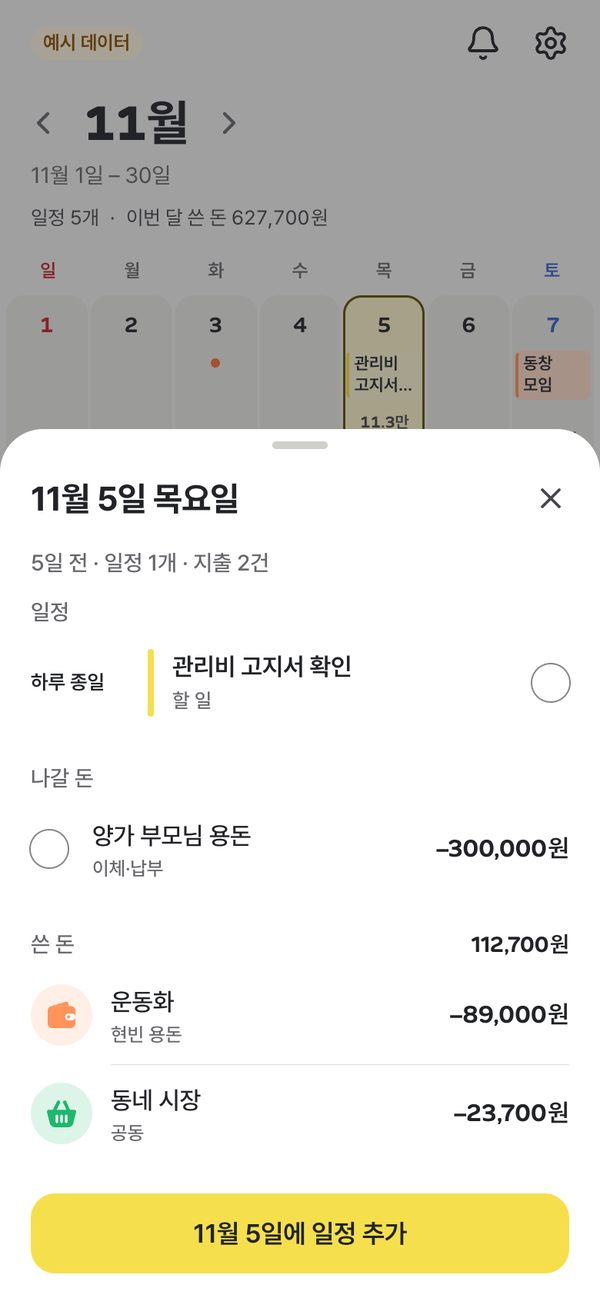
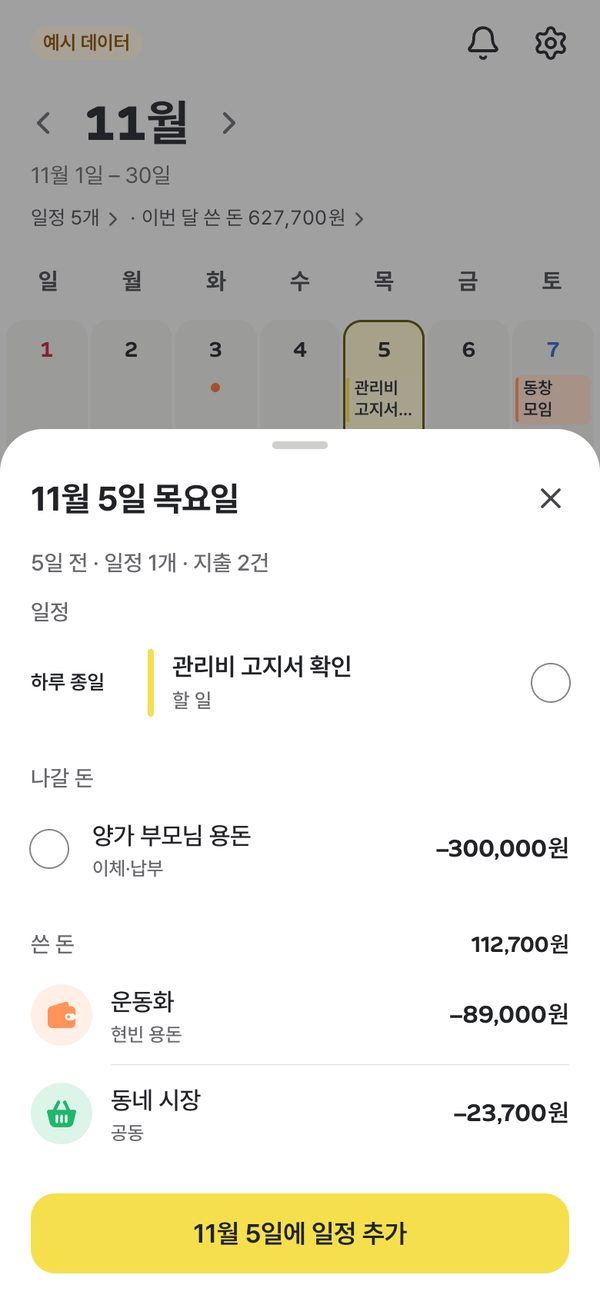
달력 요약 줄을 누르면 그 자리에서 가운데로 커지는 창 — 이번 달 일정·쓴 돈 모아 보기, 막대 여백 16px
"일정 5개 · 이번 달 쓴 돈"은 읽기만 하는 줄이라 그 내용을 보려면 모아 보기로 내려가거나 가계부로 가야 했다.
0인 쪽은 줄에서 빼고 남은 쪽을 버튼으로 두어, 누르면 그 글자에서 화면 가운데로 커지는 창(ZoomPop, transform·opacity)에
이번 달 일정(날짜별, 기간·반복은 첫날 한 번)이나 지출(SpendingDays)을 보여 준다. 줄을 누르면 위에 시트가 겹치고,
뒤로 가기는 시트 → 창 순서로 닫으며(useBackToClose 층) 닫히면 누른 글자로 줄어들고 포커스도 돌아간다.
막대 위아래 여백은 24 → 16px 로 줄이고 그만큼 요일 줄을 15px/700 로 키웠다.

diff --git a/apps/web/src/app/calendar/page.tsx b/apps/web/src/app/calendar/page.tsx
@@ -3,13 +3,13 @@
 import Link from "next/link";
 import { Suspense, useEffect, useLayoutEffect, useRef, useState } from "react";
 import { useRouter, useSearchParams } from "next/navigation";
-import { CalendarPlus, ChevronDown, ChevronLeft, X } from "lucide-react";
+import { CalendarPlus, ChevronDown, ChevronLeft, ChevronRight, X } from "lucide-react";
 import type { CalEvent, Spending } from "@/lib/types";
 import { useData } from "@/lib/store";
 import { actualAmount, findCheck, nameOf } from "@/lib/calc";
 import { ddayText, eventTodo, marksIn, monthGrid, nextOccurrence, rangeDays, rangeOf, rangeText, spentByDay, type Mark, type Range } from "@/lib/calendar";
 import { leaveSummary, resetSummary } from "@/lib/summaryNav";
-import { dateWithDay, monthLabel, parseYmd, shortDate } from "@/lib/format";
+import { dateWithDay, dayLabel, monthLabel, parseYmd, shortDate } from "@/lib/format";
 import { MonthHeader } from "@/components/MonthHeader";
 import { afterSheet, CategoryIcon, CheckButton, Money, Seg, Sheet } from "@/components/ui";
 import { EventSheet, quickEvent } from "@/components/EventSheet";
@@ -19,6 +19,8 @@ import { CalendarCard } from "@/components/CalendarCard";
 import { useCalendarStage } from "@/components/calendarStage";
 import { Morph, slideIn } from "@/components/Morph";
 import { PeriodSummary } from "@/components/PeriodSummary";
+import { SpendingDays } from "@/components/SpendingDays";
+import { ZoomPop } from "@/components/ZoomPop";
 import { usePrimaryAction, useSheets } from "@/components/Shell";
 import { spendingVisual } from "@/lib/categories";
 
@@ -253,7 +255,26 @@ function CalendarMonth() {
     },
   });
   const monthSpent = [...spent.entries()].filter(([d]) => inMonth(d)).reduce((a, [, v]) => a + v, 0);
-  const monthEvents = new Set([...marks.entries()].filter(([d]) => inMonth(d)).flatMap(([, ms]) => ms.filter((m) => m.event).map((m) => m.event!.id))).size;
+  // 이번 달 일정: 기간·반복 일정은 이번 달 첫날 한 번만
+  const monthMarks: Mark[] = [];
+  const seenEvents = new Set<string>();
+  for (const d of cells.filter(inMonth))
+    for (const m of marks.get(d) ?? [])
+      if (m.event && !seenEvents.has(m.event.id)) {
+        seenEvents.add(m.event.id);
+        monthMarks.push(m);
+      }
+  const monthEvents = monthMarks.length;
+  const monthSpendings = data.spendings.filter((x) => inMonth(x.date)).sort((a, b) => b.date.localeCompare(a.date) || (b.created_at ?? "").localeCompare(a.created_at ?? ""));
+  // 요약 줄을 누르면 그 글자에서 가운데로 커지는 창 (닫히는 동안에도 내용은 그대로)
+  const [pop, setPop] = useState(false);
+  const [popKind, setPopKind] = useState<"events" | "spent">("events");
+  const [popFrom, setPopFrom] = useState<HTMLElement | null>(null);
+  const openPop = (kind: "events" | "spent", el: HTMLElement) => {
+    setPopKind(kind);
+    setPopFrom(el);
+    setPop(true);
+  };
 
   return (
     <>
@@ -261,7 +282,25 @@ function CalendarMonth() {
       <div className="cal-page" ref={page}>
         <div className="cal-stage">
           <MonthHeader name="달력" sub={`${Number(month.slice(5))}월 1일 – ${Number(cells.filter(inMonth).at(-1)!.slice(8))}일`}>
-            <p className="cal-summary">일정 {monthEvents}개 <span aria-hidden="true">·</span> 이번 달 쓴 돈 <Money value={monthSpent} /></p>
+            {/* 없는 것은 빼고, 있으면 눌러서 모아 본다 */}
+            {(monthEvents > 0 || monthSpent > 0) && (
+              <p className="cal-summary">
+                {monthEvents > 0 && (
+                  <button type="button" className="sum-link" aria-haspopup="dialog" onClick={(e) => openPop("events", e.currentTarget)}>
+                    일정 {monthEvents}개<ChevronRight aria-hidden="true" />
+                  </button>
+                )}
+                {monthEvents > 0 && monthSpent > 0 && <span aria-hidden="true">·</span>}
+                {monthSpent > 0 && (
+                  <button type="button" className="sum-link" aria-haspopup="dialog" onClick={(e) => openPop("spent", e.currentTarget)}>
+                    <span>
+                      이번 달 쓴 돈 <Money value={monthSpent} />
+                    </span>
+                    <ChevronRight aria-hidden="true" />
+                  </button>
+                )}
+              </p>
+            )}
           </MonthHeader>
           <section className="calendar-month" aria-label="월 달력">
             <CalendarCard month={month} cells={cells} marks={marks} spent={spent} day={day} today={today} onPick={pick} />
@@ -303,9 +342,44 @@ function CalendarMonth() {
           <DayAgenda day={day} marks={marks.get(day) ?? []} onOpenEvent={editEvent} onOpenSpending={(x) => closeThen(() => openSpending(x))} />
         </div>
       </Sheet>
+      <ZoomPop
+        open={pop}
+        onOpenChange={setPop}
+        from={popFrom}
+        title={
+          popKind === "events" ? (
+            `${monthLabel(month)} 일정 ${monthEvents}개`
+          ) : (
+            <>
+              {monthLabel(month)} 쓴 돈 <Money value={monthSpent} />
+            </>
+          )
+        }
+      >
+        {popKind === "events" ? <MonthEvents marks={monthMarks} onOpenEvent={(e) => openEvent(e)} /> : <SpendingDays rows={monthSpendings} />}
+      </ZoomPop>
       <EventSheet key={sheet.key} open={sheet.open} event={sheet.event} date={sheet.date} draft={sheet.draft} onOpenChange={closeEvent} />
     </>
   );
+}
+
+/** 요약 창의 이번 달 일정 — 날짜별로 묶고, 줄을 누르면 고친다 */
+function MonthEvents({ marks, onOpenEvent }: { marks: Mark[]; onOpenEvent: (event: CalEvent) => void }) {
+  const { today } = useData();
+  const days = new Map<string, Mark[]>();
+  for (const m of marks) days.set(m.date, [...(days.get(m.date) ?? []), m]);
+  return [...days.entries()].map(([date, ms]) => (
+    <div className="daygroup" key={date}>
+      <div className="dayhead">
+        <span>{dayLabel(date, today)}</span>
+      </div>
+      <div className="rows">
+        {ms.map((m) => (
+          <EventRow key={m.event!.id} m={m} onOpen={() => onOpenEvent(m.event!)} />
+        ))}
+      </div>
+    </div>
+  ));
 }
 
 /** 날짜 패널: 얼마나 떨어진 날인지, 그 아래 일정 → 들어올 돈 → 나갈 돈 → 쓴 돈을 묶어서 보여 준다. */

diff --git a/apps/web/src/components/ZoomPop.tsx b/apps/web/src/components/ZoomPop.tsx
@@ -1,0 +1,108 @@
+"use client";
+
+import { useEffect, useId, useLayoutEffect, useRef, useState } from "react";
+import { createPortal } from "react-dom";
+import { X } from "lucide-react";
+import { still } from "./Morph";
+import { useBackToClose } from "./ui";
+
+/** 커지기·줄어들기 (ms) — 열 때는 서랍 박자, 닫을 때는 조금 빠르게 */
+const OPEN_MS = 420;
+const CLOSE_MS = 260;
+const EASE = "cubic-bezier(0.32, 0.72, 0, 1)";
+
+/**
+ * 누른 글자 자리에서 화면 가운데로 점점 커지며 뜨는 창 (docs/design-system/components/Calendar "요약 창").
+ * 닫으면 누른 자리로 줄어들며 사라진다. transform·opacity 만 움직인다.
+ * 뒤로 가기·Esc·바깥 누르기로 닫는다. 시트(z 40)보다 아래에 떠서, 안에서 연 일정·지출 시트가 위에 겹친다.
+ */
+export function ZoomPop({
+  open,
+  onOpenChange,
+  from,
+  title,
+  children,
+}: {
+  open: boolean;
+  onOpenChange: (v: boolean) => void;
+  /** 누른 글자 — 여기서 커지고 여기로 줄어든다 */
+  from: HTMLElement | null;
+  title: React.ReactNode;
+  children: React.ReactNode;
+}) {
+  const [shown, setShown] = useState(open);
+  const panel = useRef<HTMLDivElement>(null);
+  const veil = useRef<HTMLDivElement>(null);
+  const titleId = useId();
+  useBackToClose(open, onOpenChange);
+  if (open && !shown) setShown(true);
+
+  // 누른 글자 가운데에서 창 가운데까지의 거리와 크기 비율
+  const delta = () => {
+    const p = panel.current?.getBoundingClientRect();
+    const f = from?.getBoundingClientRect();
+    if (!p || !f) return null;
+    const dx = f.left + f.width / 2 - (p.left + p.width / 2);
+    const dy = f.top + f.height / 2 - (p.top + p.height / 2);
+    const s = Math.max(0.12, Math.min(f.width / p.width, 0.5));
+    return `translate(${dx}px, ${dy}px) scale(${s})`;
+  };
+
+  useLayoutEffect(() => {
+    const el = panel.current;
+    if (!el) return;
+    if (open) {
+      el.focus({ preventScroll: true });
+      const t = delta();
+      if (t && !still()) {
+        el.animate([{ transform: t, opacity: 0 }, { transform: "none", opacity: 1 }], { duration: OPEN_MS, easing: EASE });
+        veil.current?.animate([{ opacity: 0 }, { opacity: 1 }], { duration: OPEN_MS, easing: "ease" });
+      }
+      return;
+    }
+    if (!shown) return;
+    // 움직임 줄이기면 길이 0 — 끝나면(onfinish) 내린다
+    const t = delta();
+    const ms = still() ? 0 : CLOSE_MS;
+    const a = el.animate(t ? [{ transform: "none", opacity: 1 }, { transform: t, opacity: 0 }] : [{ opacity: 1 }, { opacity: 0 }], { duration: ms, easing: EASE, fill: "forwards" });
+    const b = veil.current?.animate([{ opacity: 1 }, { opacity: 0 }], { duration: ms, easing: "ease", fill: "forwards" });
+    a.onfinish = () => setShown(false);
+    return () => {
+      a.cancel();
+      b?.cancel();
+    };
+    // eslint-disable-next-line react-hooks/exhaustive-deps -- 열고 닫을 때만
+  }, [open]);
+
+  // 닫히면 누른 글자로 포커스를 돌려준다
+  useEffect(() => {
+    if (!open && shown) from?.focus({ preventScroll: true });
+  }, [open, shown, from]);
+
+  if (!shown) return null;
+  return createPortal(
+    <div ref={veil} className="zoom-pop" inert={!open} onClick={() => onOpenChange(false)}>
+      <div
+        ref={panel}
+        className="zoom-panel"
+        role="dialog"
+        aria-modal="true"
+        aria-labelledby={titleId}
+        tabIndex={-1}
+        onClick={(e) => e.stopPropagation()}
+        onKeyDown={(e) => {
+          if (e.key === "Escape") onOpenChange(false);
+        }}
+      >
+        <div className="zoom-head">
+          <h2 id={titleId}>{title}</h2>
+          <button type="button" className="cal-close" aria-label="닫기" onClick={() => onOpenChange(false)}>
+            <X aria-hidden="true" />
+          </button>
+        </div>
+        <div className="zoom-body">{children}</div>
+      </div>
+    </div>,
+    document.body,
+  );
+}

diff --git a/apps/web/src/app/globals.css b/apps/web/src/app/globals.css
@@ -274,6 +274,18 @@ button, a, [role="button"], .chip, .tab, .seg button, .preset, .db {
 .cal-summary { color: var(--muted); font: 400 13px/20px var(--font-text); }
 .cal-summary { margin-top: 8px; }
 .cal-summary > span[aria-hidden] { margin: 0 4px; }
+/* 요약 줄의 "일정 5개 ›" · "이번 달 쓴 돈 627,700원 ›" — 누르면 그 글자에서 가운데로 커지는 창(ZoomPop) */
+.sum-link { display: inline-flex; align-items: center; gap: 1px; margin: -6px -4px; padding: 6px 4px; border: 0; border-radius: var(--radius-control); background: none; color: inherit; font: inherit; transition: transform var(--dur-press) var(--ease-press), background-color var(--dur-press) ease; }
+.sum-link svg { width: 15px; height: 15px; stroke-width: 2.25; color: var(--faint); }
+.sum-link:active { transform: scale(0.96); background: var(--tab-active-bg); }
+@media (hover: hover) and (pointer: fine) { .sum-link:hover { background: var(--tab-active-bg); } }
+/* 가운데로 커지는 창: 시트(z 40)보다 아래라 안에서 연 일정·지출 시트가 위에 겹친다 */
+.zoom-pop { position: fixed; inset: 0; z-index: 35; display: grid; place-items: center; padding: calc(env(safe-area-inset-top, 0px) + 56px) 16px calc(env(safe-area-inset-bottom, 0px) + 24px); background: var(--scrim); }
+.zoom-panel { display: flex; flex-direction: column; width: min(480px, 100%); max-height: 100%; overflow: hidden; border-radius: var(--radius-card); background: var(--surface); box-shadow: var(--shadow-float); outline: none; }
+.zoom-head { display: flex; flex: none; align-items: center; justify-content: space-between; gap: 8px; padding: 14px 20px 2px; }
+.zoom-head h2 { font: 700 19px/26px var(--font-text); }
+.zoom-head .cal-close { margin-right: -10px; }
+.zoom-body { padding: 0 20px 16px; overflow-y: auto; overscroll-behavior: contain; }
 .cal-close { display: grid; flex: none; place-items: center; width: 44px; height: 44px; padding: 0; border: 0; border-radius: var(--radius-control); background: var(--well); color: var(--muted); transition: transform var(--dur-press) var(--ease-press); }
 .cal-close svg { width: 22px; height: 22px; }
 /* 패널 닫기는 상자 없이 아이콘만 (누르는 자리는 44px 유지) */
@@ -403,6 +415,8 @@ button, a, [role="button"], .chip, .tab, .seg button, .preset, .db {
     scroll-snap-align: start;
   }
   .cal-stage .page-head { margin-bottom: 14px; }
+  /* 막대 위아래를 줄인 만큼(16px) 요일 줄을 키우고 굵게 */
+  .cal-stage .cal-week span { padding: 6px 0 14px; color: var(--muted); font: 700 15px/22px var(--font-text); }
   .cal-stage .calendar-month, .cal-stage .cal { display: flex; flex: 1; flex-direction: column; min-height: 0; }
   .cal-stage .cal-grid { flex: 1; min-height: 0; grid-auto-rows: minmax(0, 1fr); }
   .cal-stage .cal-day { min-height: 0; overflow: hidden; }

diff --git a/apps/web/src/app/tokens.css b/apps/web/src/app/tokens.css
@@ -86,7 +86,7 @@
   --nav-gap: 8px;
   --fab-wide-w: 224px;
   --fab-wide-h: 52px;
-  --fab-clear: 24px;
+  --fab-clear: 16px;
   --fab-compose-h: 122px;
   --pass-peek: 58px;
   --radius-card: 24px;

diff --git a/docs/design-system/components/Calendar/README.md b/docs/design-system/components/Calendar/README.md
@@ -4,12 +4,13 @@
 
 ## 구성
 
-- **머리:** 다른 화면과 같습니다. 달 제목은 왼쪽 끝, 아래 기간 줄과 "일정 5개 · 이번 달 쓴 돈" 한 줄. 모아 보기 버튼은 두지 않습니다(모아 보기는 달력 아래에 있습니다). 월 화살표·달 고르기·기간 모아 보기를 유지합니다.
+- **머리:** 다른 화면과 같습니다. 달 제목은 왼쪽 끝, 아래 기간 줄과 "일정 5개 › · 이번 달 쓴 돈 627,700원 ›" 한 줄(0인 쪽은 빼고, 둘 다 없으면 줄도 없음).
+  - **요약 창(`ZoomPop`):** 줄의 글자를 누르면 그 글자 자리에서 화면 가운데로 점점 커지며 창이 뜹니다(`transform`·`opacity`만, 420ms `ease-drawer`, 뒤는 `scrim`). 일정은 이번 달 일정을 날짜별로(기간·반복은 이번 달 첫날 한 번), 쓴 돈은 이번 달 지출을 날짜별로(`SpendingDays`) 보여 주고, 줄을 누르면 그 위에 일정·지출 시트가 열립니다. 닫으면(×·바깥·뒤로 가기·Esc) 누른 글자로 줄어들며(260ms) 사라지고 포커스도 그 글자로 돌아갑니다. 창은 시트(z 40) 아래 z 35입니다. 모아 보기 버튼은 두지 않습니다(모아 보기는 달력 아래에 있습니다). 월 화살표·달 고르기·기간 모아 보기를 유지합니다.
 - **두 칸 — 달력 ↔ 모아 보기 (폰·태블릿, 1024px 미만):**
   - **첫 화면은 달력만:** 머리와 달력이 위 막대 아래를 꽉 채우고, 날짜 줄이 남는 높이를 나눠 가집니다. 손잡이·안내 글은 두지 않습니다.
   - **하단 메뉴가 비켜 줌:** 달력만 보일 때(`<html data-cal="focus">`) 캡슐은 아래로 내려가 숨고, 일정 추가 버튼이 가운데로 옮겨 가며 얇은 막대(`fab-wide-w` 224 × `fab-wide-h` 52px, 하단 메뉴처럼 반투명 바탕)로 늘어납니다(`dur-tab`·`ease-drawer`, 자리는 `translate`, 가운데는 하단 메뉴 실제 폭 `cqw` 기준). 막대 왼쪽은 "11월 17일에 추가"(쓰던 글이 있으면 그 글), 오른쪽 `+`는 원래 일정 시트입니다.
   - **바로 쓰기(`QuickAdd`):** "…에 추가"를 누르면 막대가 하단 메뉴 폭 × `fab-compose-h` 122px로 서서히 커지고(모서리 `radius-card`, 바탕 `surface`), 원래 입력칸(`.input`)이 55% 크기에서 `ease-pop`으로 커지며 생기고 키보드가 바로 올라옵니다. 아래 줄은 **시간 알약**(누르면 폰 시간 고르기, 고르면 "오후 3시 30분" · `accent-soft`, ×로 지움) · 자세히 · 추가. 추가는 시트 없이 고른 날짜에 **일정**으로 바로 더합니다(시간을 안 고르면 제목 속 "3시 반"을 시트와 같은 규칙으로 뗌). 자세히·`+`는 쓰던 제목·시간으로 일정 시트를 엽니다.
-  - 펼친 동안 뒤는 `scrim`으로 덮어 카드가 날짜와 떨어져 보입니다. 접힌 막대는 위(달력 마지막 줄)·아래(화면 끝, 안전 영역 위) 여백이 같게 `fab-clear` 24px입니다(달력 첫 화면에서만 막대를 `nav-inset`보다 그만큼 올림).
+  - 펼친 동안 뒤는 `scrim`으로 덮어 카드가 날짜와 떨어져 보입니다. 접힌 막대는 위(달력 마지막 줄)·아래(화면 끝, 안전 영역 위) 여백이 같게 `fab-clear` 16px입니다. 줄인 만큼 요일 줄을 키워 15px/700(`muted`), 줄 높이 42px(달력 첫 화면에서만 막대를 `nav-inset`보다 그만큼 올림).
   - 막대 밖을 누르면 접기만 하고(그 누름은 뒤의 날짜를 고르지 않음), 뒤로 가기(`useBackToClose`)·Esc 로도 접힙니다. 쓰던 글은 남습니다. 키보드가 올라오면 화면이 줄어(`interactive-widget=resizes-content`, 앱은 `adjustResize`) 막대가 키보드 위에 붙습니다. 달력 아래에는 그 버튼 자리만큼 비워 둡니다.
   - **저항감 있는 넘김:** 두 칸 사이는 스크롤 스냅(`y mandatory`)입니다. 조금 끌면 달력으로 되돌아오고, 더 끌면 모아 보기 머리가 위 막대 아래에 맞춰 섭니다. 모아 보기가 길면 그 안은 자유롭게 굴립니다.
   - **메뉴가 돌아옴:** 모아 보기 위쪽이 화면 가운데를 넘으면(`data-cal="open"`) 캡슐과 버튼이 같은 박자로 제자리로 돌아옵니다. 다시 위로 올리면 또 비켜 줍니다.

diff --git a/CHANGELOG.md b/CHANGELOG.md
@@ -17,7 +17,7 @@
 - 체크와 플랜 맨 위가 토스·뱅크샐러드처럼 바뀌었어요. 화면 머리에는 달과 기간만 두고, 체크는 첫 카드에 **"11건 남았어요"**와 막대, 남은 묶음 줄(옮길 돈 2건 · 600,000원 ›…)을 둬요 — 줄을 누르면 그 카드로 내려가요. 플랜은 "월급이 나뉘는 곳" 카드가 "926,100원 남았어요"를 말하고, "다른 달에서 불러오기"는 화면 맨 아래 한 줄 카드 "다른 달에서 항목 가져오기"로 옮겼어요.
 - 홈 "이번 달 할 일"이 체크 요약과 같은 모양이 됐어요: 큰 숫자 **"11건 남았어요"**와 막대, 기한 지난 일 한 줄, 그리고 급한 순 **3건만** 보여요(전엔 6건). 나머지는 맨 아래 "남은 일 11건 모두 보기 ›"로 체크에서 봐요.
 - 홈 맨 위의 결론 문장("현빈 ISA로 옮길 돈 외 2건이 기한을 넘겼어요.")을 토스처럼 **하나씩 도착하는 알림 카드**로 바꿨어요. 지금 알아야 할 것(기한 넘김 · 잘 나갔는지 확인 · 오늘 월급날/옮길 돈 · 모두 마침 · 생활비 빠름 · 다음 월급날)을 최대 3개까지, 카드가 글과 함께 작은 크기에서 커지며 나타나고, 다음 알림이 오면 먼저 온 알림이 아래로 내려가요(가장 중요한 알림이 맨 위). 앱을 켜 둔 동안 한 번만 움직이고, 누르면 체크(생활비는 가계부)로 가요. 알림은 한 번 눌러 보면 사라져요 — 기한 넘긴 일만 끝낼 때까지 남아요. 이제 모든 화면 머리에는 달과 기간만 있어요.
-- 달력 화면은 처음엔 **달력만 꽉 차요**. 아래 메뉴가 내려가 숨고 일정 추가 버튼이 가운데로 옮겨 가며 "11월 17일에 추가" 막대가 돼요. 누르면 막대가 커지며 입력칸과 시간 고르기가 나와서, 쓰고 추가하면 고른 날짜에 바로 일정이 생겨요. `+`나 자세히는 원래 일정 추가 화면을 열어요. 아래로 조금 내리면 되돌아오고 더 내리면 이번 달 할 일·일정·D-day **모아 보기**와 메뉴가 나와요(모아 보기 버튼은 없앴어요). 처음 들어오면 반투명 화살표와 함께 화면이 살짝 올라가 아래가 더 있다는 것을 보여 줘요. 달력 아래 손잡이(한 주로 접기)와 안내 글은 뺐어요.
+- 달력 화면은 처음엔 **달력만 꽉 차요**. 아래 메뉴가 내려가 숨고 일정 추가 버튼이 가운데로 옮겨 가며 "11월 17일에 추가" 막대가 돼요. 누르면 막대가 커지며 입력칸과 시간 고르기가 나와서, 쓰고 추가하면 고른 날짜에 바로 일정이 생겨요. `+`나 자세히는 원래 일정 추가 화면을 열어요. 아래로 조금 내리면 되돌아오고 더 내리면 이번 달 할 일·일정·D-day **모아 보기**와 메뉴가 나와요(모아 보기 버튼은 없앴어요). 처음 들어오면 반투명 화살표와 함께 화면이 살짝 올라가 아래가 더 있다는 것을 보여 줘요. 달력 아래 손잡이(한 주로 접기)와 안내 글은 뺐어요. 달 제목 아래 "일정 5개 · 이번 달 쓴 돈"을 누르면 그 자리에서 가운데로 창이 커지며 이번 달 일정·지출을 모아 보여 줘요(없는 쪽은 줄에서 빠져요).
 - **DB 이전:** 없음
 
 - 가계부 누적 그래프를 누르면 뜨는 날짜별 금액 말풍선이 그래프 안쪽에 떠요. 위 글자를 가리지 않고, 선과 오늘 점을 덜 가리는 자리(왼쪽·오른쪽, 위·아래)를 골라요.
